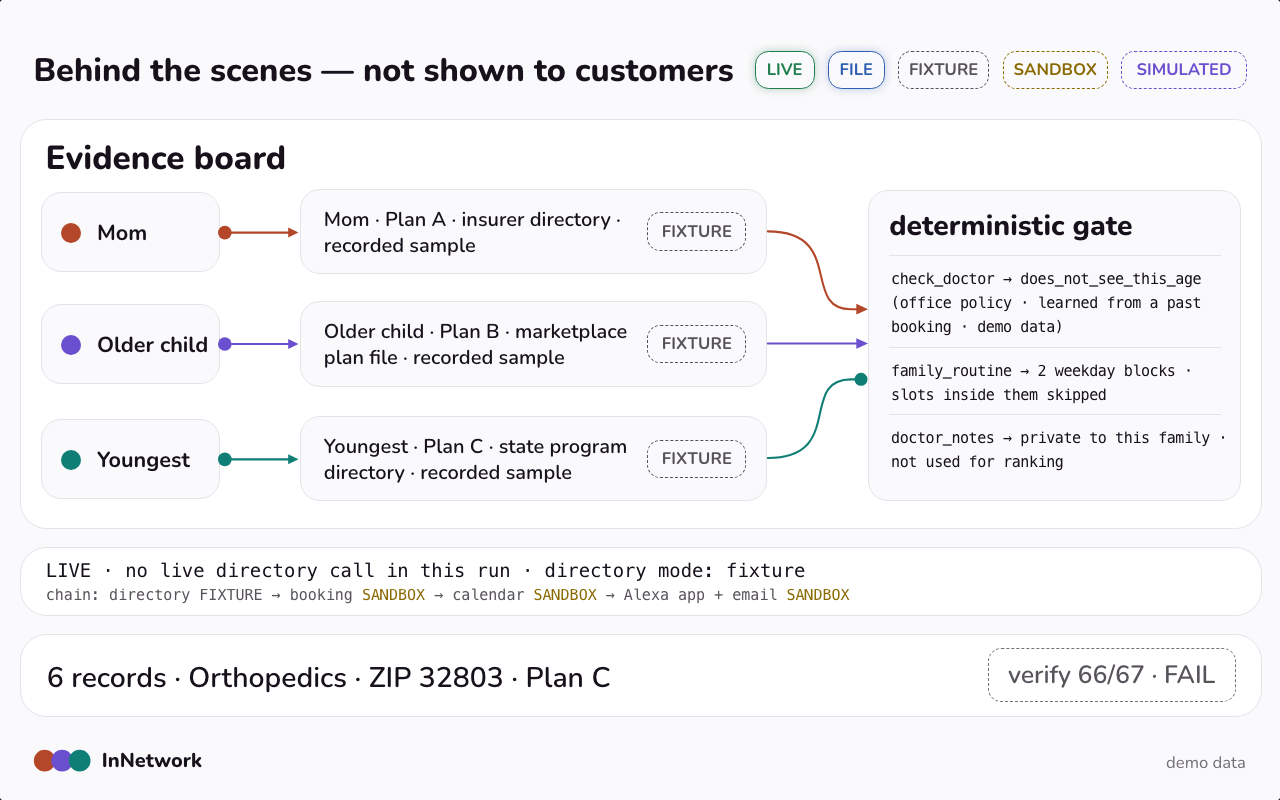
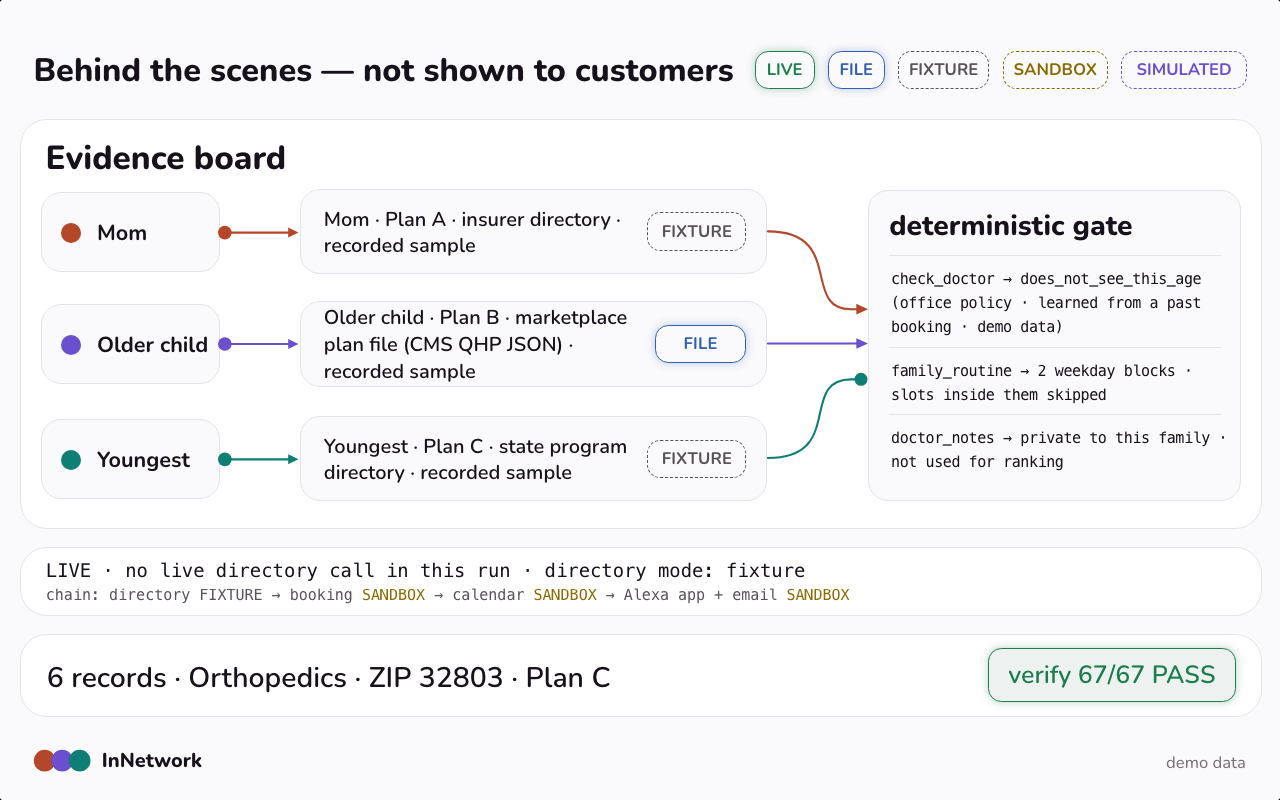
Behind-the-scenes board in live mode: short request label, the session's successful network check, FILE badge for the marketplace file, short probe errors

Changed region(s): [[0.25, 0.375, 0.5938, 0.4688], [0.7812, 0.7812, 0.9688, 0.9062]]

diff --git a/host/host.ts b/host/host.ts
@@ -448,6 +448,17 @@ const modeBadge = (mode: string, kind: string) => {
   return h("span", cls, mode === "live" && kind === "fhir-plannet" ? "LIVE FHIR" : mode.toUpperCase());
 };
 
+/** "GET PractitionerRole?…plan_id…" from a probe URL: the resource and the filter that makes it "in network". */
+function requestLabel(ref: string): string {
+  try {
+    const u = new URL(ref);
+    const resource = u.pathname.split("/").filter(Boolean).pop() ?? "";
+    const q = decodeURIComponent(u.search);
+    const key = /plan_id/.test(q) ? "plan_id" : /network/.test(q) ? "network" : [...u.searchParams.keys()][0] ?? "";
+    return `GET ${resource}${key ? `?…${key}…` : ""}`;
+  } catch { return "GET"; }
+}
+
 async function renderDevboard(): Promise<void> {
   const d = await devinfo();
   const board = $("devboard");
@@ -465,11 +476,13 @@ async function renderDevboard(): Promise<void> {
     const step = last.familySteps.find((st) => st.op.endsWith(` · ${r.planLabel}`) && / · ZIP /.test(st.op));
     // a successful live probe of this plan in this server run makes the network step LIVE; else the lookup's own mode
     const probeOk = plan ? d?.probes?.[plan.planId]?.ok === true : false;
-    const mode = probeOk ? "live" : step?.mode ?? plan?.sourceMode ?? "fixture";
+    const lookupMode = probeOk ? "live" : step?.mode ?? plan?.sourceMode ?? "fixture";
     const kind = plan?.kind ?? "";
-    const who = r.memberLabel ? `${r.memberLabel} · ` : "";
+    // a marketplace plan publishes a FILE (no API): the badge names the source kind, the text says it is our recorded copy
+    const mode = kind === "qhp-file" && lookupMode !== "live" ? "file" : lookupMode;
+    const text = `${r.memberLabel ? `${r.memberLabel} · ` : ""}${r.planLabel} · ${kind === "qhp-file" ? `marketplace plan file (CMS QHP JSON)${lookupMode === "fixture" ? " · recorded sample" : ""}` : sourceText(plan, lookupMode)}`;
     grid.append(h("div", `member member--${r.member || memberCls[i]} inner r${i + 1}`, h("span", "dot"), h("span", "member-name", r.memberLabel || r.planLabel)));
-    grid.append(h("div", `source inner r${i + 1}`, h("p", "source-text", `${who}${r.planLabel} · ${sourceText(plan, mode)}`), modeBadge(mode, kind)));
+    grid.append(h("div", `source inner r${i + 1}`, h("p", "source-text", text), modeBadge(mode, kind)));
   });
   grid.append(linksIn(), linksGate());
   const gate = h("div", "gate inner", h("h3", "gate-title", "deterministic gate"));
@@ -485,9 +498,12 @@ async function renderDevboard(): Promise<void> {
 
   // live strip: the latest live probe from /devinfo; else say plainly that nothing live ran
   const probe = Object.values(d?.probes ?? {}).filter((p) => p.ok).sort((a, b) => b.asOf.localeCompare(a.asOf))[0];
-  const liveStep = [...last.lookupSteps].reverse().find((st) => st.mode === "live" && /live network check/.test(st.op));
+  // any live network check of this session (the opening's Plan A check counts even if a later search's check failed)
+  const liveSteps = [...last.familySteps, ...last.lookupSteps].reverse().filter((st) => st.mode === "live" && /live network check/.test(st.op));
+  const liveStep = liveSteps.find((st) => !/did not answer/.test(st.summary)) ?? null;
+  const failedProbe = Object.values(d?.probes ?? {}).find((p) => !p.ok);
   const req = probe
-    ? h("p", "req", `LIVE · ${probe.directory} · ${probe.ref} · `, h("span", "nb", `${probe.ms} ms`), " · as of ", h("span", "nb", hhmm(probe.asOf)))
+    ? h("p", "req", `LIVE · ${probe.directory.replace(/ provider directory/, "")} · ${requestLabel(probe.ref)} · `, h("span", "nb", `${probe.ms} ms`), " · as of ", h("span", "nb", hhmm(probe.asOf)))
     : h("p", "req", `LIVE · no live directory call in this run · directory mode: ${d?.directoryMode ?? "unknown"}`);
   state.devboard.probe = probe ? `${probe.directory} ${probe.ms} ms` : "none";
   const chain = h("p", "chain", "chain: ");
@@ -502,7 +518,7 @@ async function renderDevboard(): Promise<void> {
   const live = h("section", "strip strip--live card", req, chain);
   live.setAttribute("aria-label", "Live request");
 
-  const count = liveStep ? liveStep.summary : (() => {
+  const count = liveStep ? liveStep.summary : failedProbe ? `${failedProbe.directory.replace(/ provider directory.*$/, "")} didn't answer · ${failedProbe.error ?? "no answer"} · not confirmed` : (() => {
     const st = [...last.lookupSteps].reverse().find((x) => / · ZIP /.test(x.op));
     return st ? `${st.summary} · ${st.op}` : "no directory lookup in this session yet";
   })();

diff --git a/server/tools.ts b/server/tools.ts
@@ -130,12 +130,14 @@ async function lookupFor(sv: Services, steps: Steps, u: UserState, member: Membe
     service: answer.directory, op: `${SPECIALTY_WORDS[specialty].field} · ZIP ${u.profile.zip} · ${plan.label}`, mode: answer.mode, ms: answer.ms,
     summary: answer.ok ? `${answer.records.length} records${answer.inNetworkCount !== null ? ` · ${answer.inNetworkCount} in ${plan.label}'s network` : ""}` : `did not answer: ${answer.error} · NOT confirmed`,
   });
+  const shortErr = (e: string) => { const code = e.match(/\b(4\d\d|5\d\d)\b/)?.[1]; return /quota/i.test(e) ? `HTTP ${code ?? "403"}, daily quota` : /timeout|abort/i.test(e) ? "timeout" : code ? `HTTP ${code}` : e.slice(0, 40); };
   let probe: NetworkProbe | null = null;
   if (sv.directory.probe) {
     probe = await sv.directory.probe(plan, specialty, u.profile.zip);
     if (probe) {
+      if (!probe.ok) probe = { ...probe, error: shortErr(probe.error) };
       sv.probes.set(plan.planId, probe);
-      steps.add({ service: probe.directory, op: `live network check · ${probe.ref}`, mode: "live", ms: probe.ms, summary: probe.ok ? `${probe.inNetworkCount} in-network practitioners for this specialty in ZIP ${u.profile.zip}` : `did not answer: ${probe.error} · not confirmed` });
+      steps.add({ service: probe.directory, op: `live network check · ${probe.ref}`, mode: "live", ms: probe.ms, summary: probe.ok ? `${probe.inNetworkCount} in-network for ${SPECIALTY_WORDS[specialty].visit} · ZIP ${u.profile.zip} · ${plan.label}` : `did not answer: ${probe.error} · not confirmed` });
     }
   }
   const policies = loadPolicies(sv.policiesSeed);
